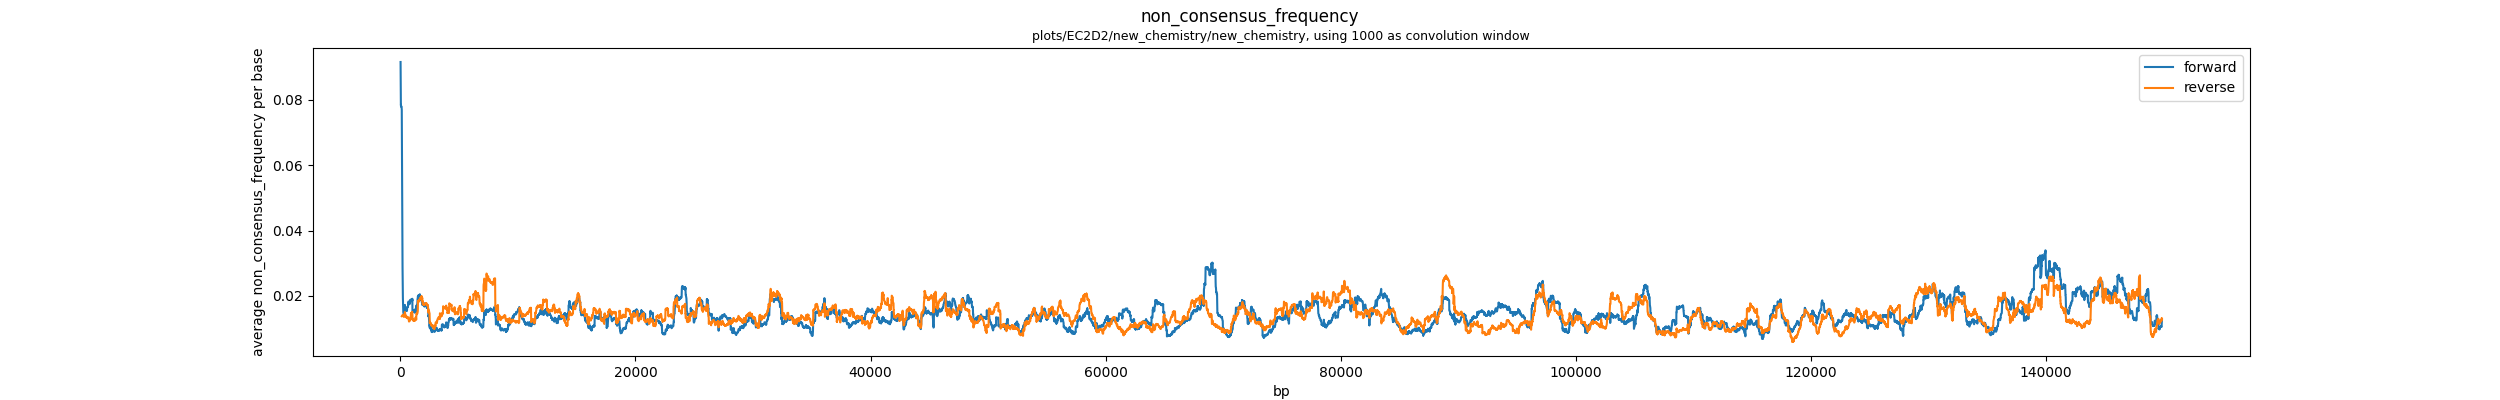
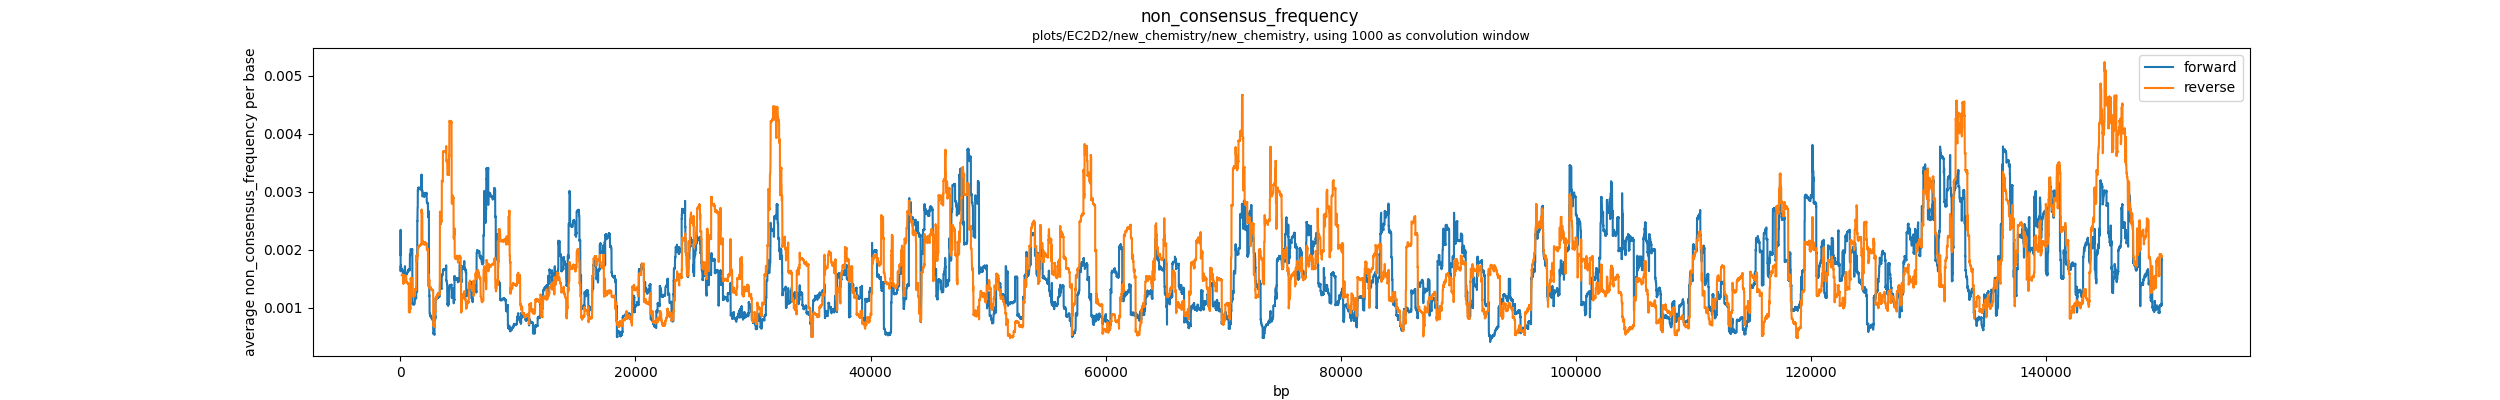
frequencies bug corrected

diff --git a/frequencies_generator.py b/frequencies_generator.py
@@ -20,7 +20,7 @@ def ncf(pileup, reference, l):
             forward_total+=forward[i_nuc][pos]
             reverse_total+=reverse[i_nuc][pos]
             total+=forward[i_nuc][pos]+reverse[i_nuc][pos]
-            if not nuc==ref_nuc:
+            if (not nuc==ref_nuc) and i_nuc<4:
                 forward_non_consensus+=forward[i_nuc][pos]
                 reverse_non_consensus+=reverse[i_nuc][pos]
                 non_consensus+=forward[i_nuc][pos]+reverse[i_nuc][pos]
@@ -28,7 +28,7 @@ def ncf(pileup, reference, l):
         forward_non_consensus_freq[pos]=forward_non_consensus/forward_total
         reverse_non_consensus_freq[pos]=reverse_non_consensus/reverse_total
         non_consensus_freq[pos]=non_consensus/total
-
+    
     return forward_non_consensus_freq,reverse_non_consensus_freq,non_consensus_freq
 
 def get_total_mappings(clips_dict,l):
@@ -61,41 +61,35 @@ def sum_forward_reverse(fwd,rev):
 
 def threshold_on_value_of_array(to_filter, array, t):
     #takes three arrays to filter on the basis of three values of another array
-    output_tris=([],[],[])
-    check=True
     for pos,val in enumerate(to_filter[0]):
         for direction,vector in enumerate(to_filter):
             if array[direction][pos]<t:
-                check=False
-        if check:
-            for i,v in enumerate(output_tris):
-                output_tris[i].append(to_filter[i][pos])
-        check=True
-    return output_tris
+                to_filter[direction][pos]=0
+    return to_filter
 
-def generate_frequencies(pileup,reference,clips_dict,insertions_dict,t1,t2):
+def generate_frequencies(pileup,reference,clips_dict,insertions_dict,clips_threshold,gap_cov_threshold,cov_threshold):
 
     l=np.shape(pileup)[2]
     
     arrays={}
     fwd,rev=clips(clips_dict,l)
-    arrays['clips']=(fwd,rev)
+    arrays['clips']=[fwd,rev]
     fwd,rev=insertions(insertions_dict,l)
-    arrays['insertions']=(fwd,rev)
+    arrays['insertions']=[fwd,rev]
     fwd,rev=gaps(pileup,l)
-    arrays['gaps']=(fwd,rev)
+    arrays['gaps']=[fwd,rev]
 
     forward_coverage, reverse_coverage = coverage(pileup,l)
     tot_coverage = sum_forward_reverse(forward_coverage,reverse_coverage)
-    coverage_array=(forward_coverage,reverse_coverage,tot_coverage)
+    coverage_array=[forward_coverage,reverse_coverage,tot_coverage]
 
     forward_maps, reverse_maps = get_total_mappings(clips_dict,l)
     tot_maps = sum_forward_reverse(forward_maps,reverse_maps)
-    maps_array=(forward_maps,reverse_maps,tot_maps)
+    maps_array=[forward_maps,reverse_maps,tot_maps]
 
     forward_gap_coverage, reverse_gap_coverage = gap_coverage(pileup,l)
     tot_gap_coverage = sum_forward_reverse(forward_gap_coverage,reverse_gap_coverage)
-    gap_coverage_array=(forward_gap_coverage,reverse_gap_coverage,tot_gap_coverage)
+    gap_coverage_array=[forward_gap_coverage,reverse_gap_coverage,tot_gap_coverage]
     
     for key,val in arrays.items():
         fwd,rev=val
@@ -111,12 +105,15 @@ def generate_frequencies(pileup,reference,clips_dict,insertions_dict,t1,t2):
         arrays[key]=array
 
     fncf, rncf, tncf = ncf(pileup,reference,l)
-    arrays['ncf'] = (fncf, rncf, tncf)
+    arrays['ncf'] = [fncf, rncf, tncf]
     
-    for key,val in arrays.items():
+    #arrays has as many keys as the parameters, each parameters has 3 vectors
+    for key,three_vect in arrays.items():
         if key=='clips':
-            arrays[key]=threshold_on_value_of_array(val,maps_array,t1)
+            arrays[key]=threshold_on_value_of_array(three_vect,maps_array,clips_threshold)
+        if key=='gaps':
+            arrays[key]=threshold_on_value_of_array(three_vect,gap_coverage_array,gap_cov_threshold)
         else:
-            arrays[key]=threshold_on_value_of_array(val,coverage_array,t2)
-    
+            arrays[key]=threshold_on_value_of_array(three_vect,coverage_array,cov_threshold)
+
     return arrays

diff --git a/plot_frequency_scores.py b/plot_frequency_scores.py
@@ -11,7 +11,7 @@ def store_sites(dictionary_input,out_file):
         pickle.dump(dictionary_input, fp)
 
 if __name__ == "__main__":
-    
+    '''
     import argparse
 
     parser = argparse.ArgumentParser(
@@ -27,10 +27,10 @@ if __name__ == "__main__":
     out_file=args.out
     ref_file=args.ref
     '''
-    in_folder='results/EM11/pileup/new_chemistry/new_chemistry'
-    out_file='significant_sites/EM11/new_chemistry.pkl'
-    ref_file='results/EM11/assemblies/new_chemistry.fasta'
-    '''
+    in_folder='results/EC2D2/pileup/new_chemistry/new_chemistry'
+    out_file='significant_sites/EC2D2/new_chemistry.pkl'
+    ref_file='results/EC2D2/assemblies/new_chemistry.fasta'
+    
     pileup_file=f'{in_folder}/allele_counts.npz'
     clips_file=f'{in_folder}/clips.pkl.gz'
     insertions_file=f'{in_folder}/insertions.pkl.gz'
@@ -40,10 +40,11 @@ if __name__ == "__main__":
     clips_dict=extract_pkl(clips_file,'count')
     insertions_dict=extract_pkl(insertions_file)
 
-    t1=3
-    t2=10
+    clips_threshold=3
+    gap_cov_threshold=50
+    cov_threshold=50
     
-    frequencies=generate_frequencies(pileup,reference,clips_dict,insertions_dict,t1,t2)
+    frequencies=generate_frequencies(pileup,reference,clips_dict,insertions_dict,clips_threshold,gap_cov_threshold,cov_threshold)
 
     #check the counter of read mapping position in build_pileup script, saved in the clips dictionary
 
@@ -61,14 +62,21 @@ if __name__ == "__main__":
     for key in frequencies.keys():
         significant_sites[key]=[]
 
-    t3=0.7 #threshold on score
-    t4=0.1
+    #score threshold for gaps should be higher because they are not affected by the quality filter
+
+    score_threshold=0.7
+    gaps_score_threshold=0.9
+    delta_threshold=0.1
 
     for key,val in frequencies.items():
         for pos,score in enumerate(val[2]): #run along the total scores
-            if score>t3:
-                if val[0][pos]-val[1][pos]<t4:
-                    significant_sites[key].append((score,pos))
+            if score>score_threshold:
+                if key=='gaps':
+                    if score>gaps_score_threshold:
+                        significant_sites[key].append((score,pos))
+                else:
+                    if score>score_threshold:
+                            significant_sites[key].append((score,pos))
 
     #normalise for base frequences
     for i,v in significant_sites.items():

diff --git a/pileup_plots.py b/pileup_plots.py
@@ -28,7 +28,7 @@ def non_consensus_frequency(pileup,reference,l):
         for i_nuc,nuc in enumerate(alphabet):
             forward_total+=forward[i_nuc][pos]
             reverse_total+=reverse[i_nuc][pos]
-            if not nuc==ref_nuc:    
+            if (not nuc==ref_nuc) and i_nuc<4:
                 forward_non_consensus+=forward[i_nuc][pos]
                 reverse_non_consensus+=reverse[i_nuc][pos]
         forward_non_consensus_freq[pos]=forward_non_consensus/forward_total

diff --git a/notes/note2.md b/notes/note2.md
@@ -81,3 +81,9 @@ run the pipeline for the time analysis
 check the old chemistry data
 
 try to polish the no_barcode assembly
+
+145967 mthylation ec2d2 filtered assembly
+
+
+i was removing elements underneath the coverage threshold from the array, as opposed to sending them to zero.
+i was considering as non consensus the gaps

diff --git a/notes/note3.md b/notes/note3.md
@@ -14,7 +14,8 @@ sites with mutations with the reference:
 96984 C->t
 98910 G->a
 24323 c->t
-![Alt text](image.png)
+
+![GATC_methylation](images/GATC_methylation.png)
 
 as you can see from the image the basecall depends mainly on the direction of the sequenced strand.
 
